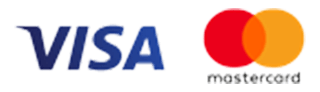
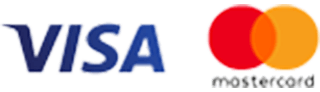
コンビニ決済系のロゴ差し替え、デザイン微調整

Changed region(s): [[0.625, 0.0435, 1.0, 0.9565], [0.0, 0.2391, 0.5312, 0.8043]]

diff --git a/react-ui/src/components/LV3/InputPayment/index.jsx b/react-ui/src/components/LV3/InputPayment/index.jsx
@@ -28,11 +28,14 @@ const Spacer = styled.div`
 `;
 
 const ImageBrandCredit = styled.img`
-  max-width: 147px;
+  max-width: 160px;
 `;
 
 const ImageCp = styled.img`
-  max-width: 100%;
+  max-width: 300px;
+  ${media.phoneSmall`
+    max-width: 100%;
+  `};
 `;
 
 const CaptionImageCp = styled.div`
@@ -153,10 +156,22 @@ const Padding = styled.span`
 
 const CmnWrap = styled.div`
   margin: ${Dimens.medium_20}px;
+  padding-top: ${Dimens.medium_20}px;
+  border-top: 1px solid ${Colors.borderGray};
   ${props =>
     props.noMarginSide &&
     `
     margin: ${Dimens.medium_20}px auto;
+  `}
+  ${props =>
+    props.noPaddingTop &&
+    `
+    padding-top: 0px;
+  `}
+  ${props =>
+    props.noBorderTop &&
+    `
+    border-top: none;
   `}
   ${media.phone`
     margin: ${Dimens.medium_20}px auto;
@@ -173,6 +188,7 @@ const Item = styled.div`
   border-radius: 6px;
   &:first-child {
     border-radius: 6px 6px 0px 0px;
+    border-bottom: none;
   }
   &:last-child {
     border-radius: 0px 0px 6px 6px;
@@ -246,7 +262,7 @@ function contentConfirm(paymentMethod, number, name, paidError, errMsgPayment) {
     return (
       <Fragment>
         <CmnWrap noMarginSide>
-          クレジットカードで決済する
+          <InlineText.Bold>クレジットカードで決済する</InlineText.Bold>
           <br />
           <br />
           <ImageBrandCredit src={iconBrandCredit} alt="icon-brand-credit" />
@@ -276,7 +292,7 @@ function contentConfirm(paymentMethod, number, name, paidError, errMsgPayment) {
   return (
     <Fragment>
       <CmnWrap noMarginSide>
-        コンビニ払い・Pay-easyで決済する
+        <InlineText.Bold>コンビニ払い・Pay-easyで決済する</InlineText.Bold>
         <br />
         <br />
         <ImageCp src={iconCp} alt="icon-cp" />
@@ -442,7 +458,7 @@ export default ({
               </Row>
             </Fragment>,
             '',
-            <CmnWrap>
+            <CmnWrap noPaddingTop noBorderTop>
               <AccountNumber>
                 みずほ銀行 渋谷中央支店
                 <br />

diff --git a/react-ui/src/components/LV3/About/index.jsx b/react-ui/src/components/LV3/About/index.jsx
@@ -22,11 +22,11 @@ import iconBrandCredit from 'images/icon-brand-credit.png';
 import iconCp from 'images/logo-cp.png';
 
 const ImageBrandCredit = styled.img`
-  max-width: 147px;
+  max-width: 160px;
 `;
 
 const ImageCp = styled.img`
-  max-width: 100%;
+  max-width: 300px;
 `;
 
 const SubTitle = styled.div`
@@ -277,7 +277,7 @@ export default () => (
           <br />
           ＜対応コンビニ＞
           <br />
-          ファミリーマート、ローソン、ミニストップのコンビニ決済及びPay-easy決済がご利用いただけます。
+          ローソン、ファミリーマート、ミニストップのコンビニ決済及びPay-easy決済がご利用いただけます。
           <br />
           <ImageCp src={iconCp} alt="icon-cp" />
           <br />

diff --git a/react-ui/src/components/containers/PaymentContainer/index.jsx b/react-ui/src/components/containers/PaymentContainer/index.jsx
@@ -352,7 +352,7 @@ class PaymentContainer extends Component<PropTypes> {
         // onKeyDownPay={this.onKeyDownPay}
         backButton={this.backButton}
         submitButton={paymentMethod === 0 ? this.payment : this.paymentConvenience}
-        backButtonText="修正する"
+        backButtonText={paymentMethod === 0 ? '修正する' : '戻る'}
         submitButtonText="確定する"
         confirm
       />
